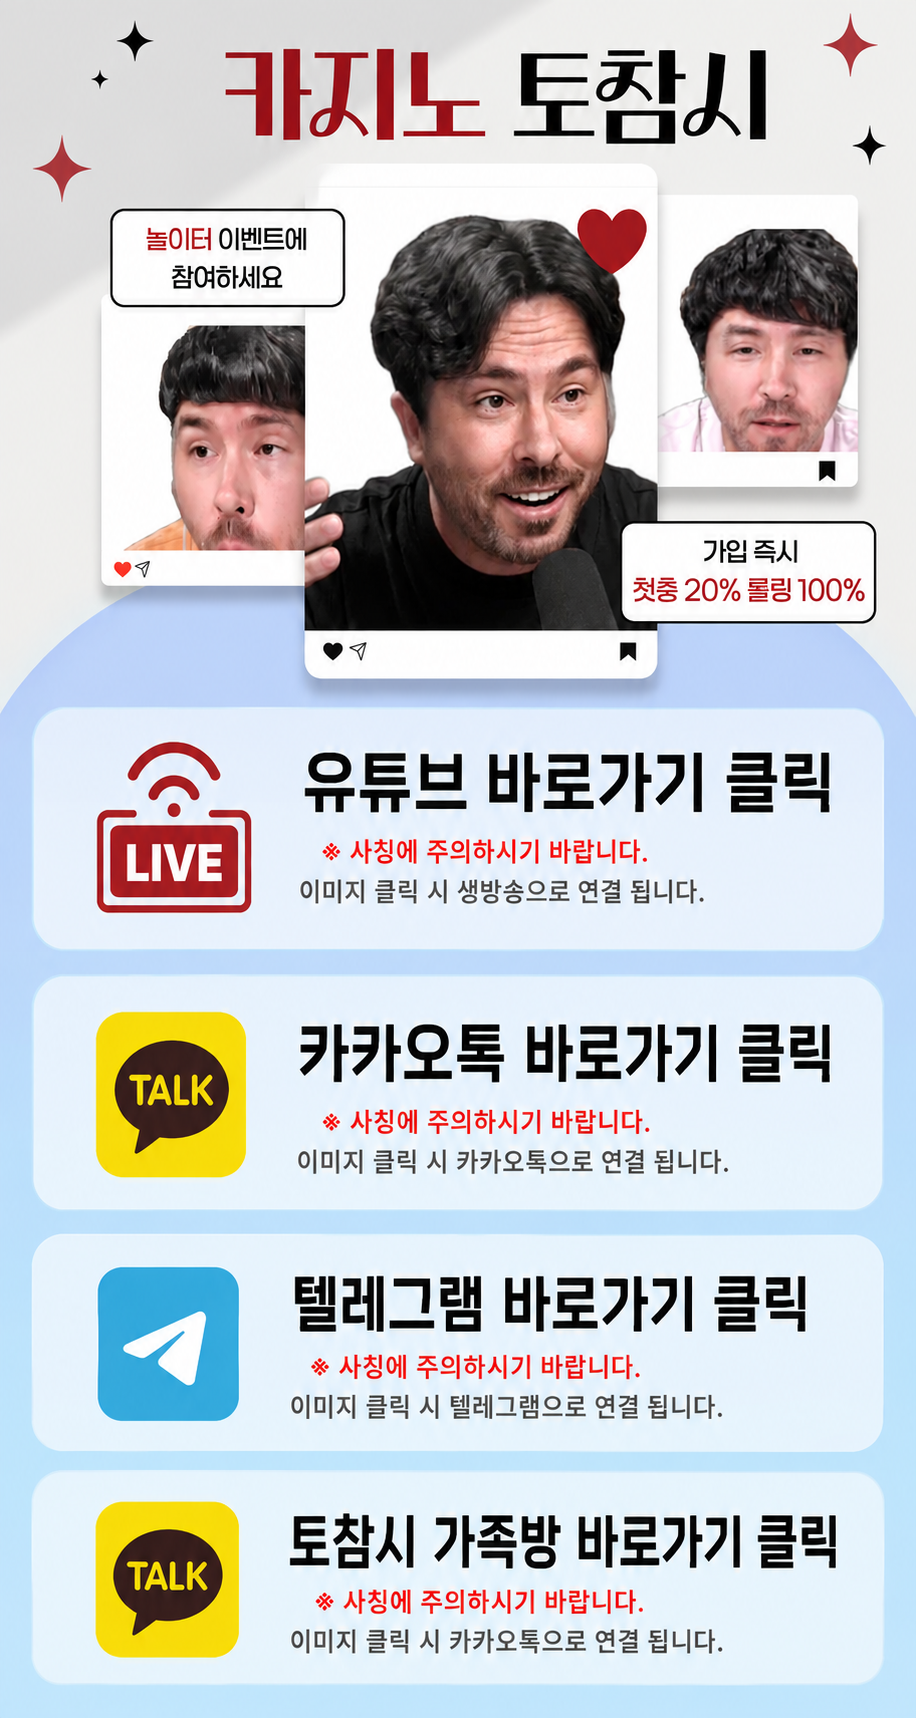
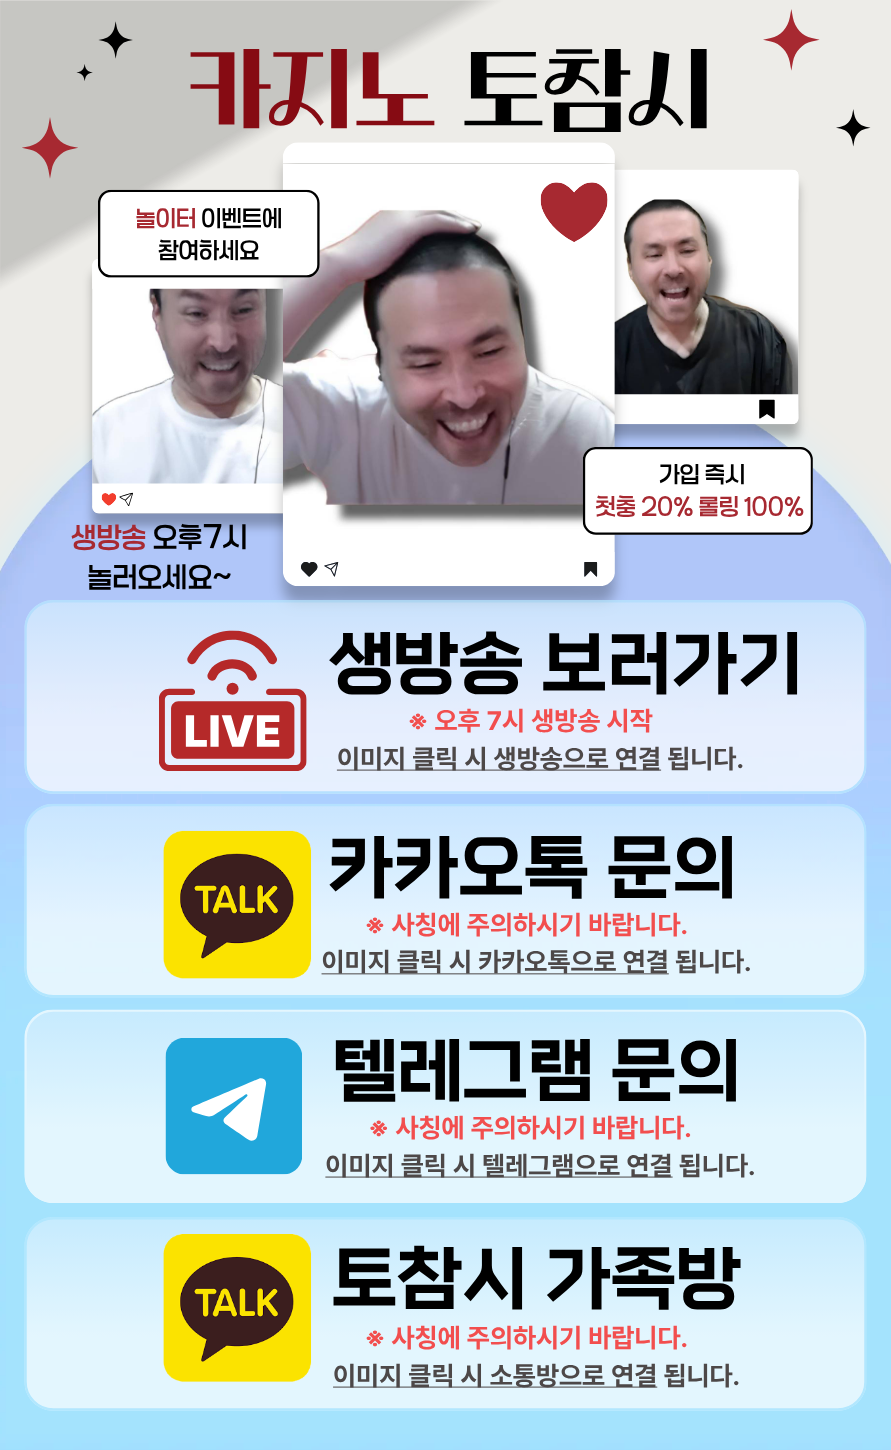
Add files via upload

diff --git a/index.html b/index.html
@@ -3,23 +3,35 @@
 <head>
   <meta charset="utf-8" />
   <meta name="viewport" content="width=device-width, initial-scale=1" />
+
   <title>카지노 토참시</title>
 
   <style>
+    * {
+      box-sizing: border-box;
+    }
+
+    html,
     body {
       margin: 0;
+      padding: 0;
       background: #000;
+    }
+
+    body {
       display: flex;
       justify-content: center;
     }
 
+    /* 전체 랜딩페이지 */
     .wrapper {
       position: relative;
       width: 100%;
-      margin: auto;
+      max-width: 891px;
+      margin: 0 auto;
     }
 
-    /* PC 크기 */
+    /* PC에서는 너무 크게 퍼지지 않게 */
     @media (min-width: 900px) {
       .wrapper {
         width: 45%;
@@ -27,38 +39,50 @@
       }
     }
 
-    /* 이미지 */
+    /* 랜딩 이미지 */
     .wrapper img {
+      display: block;
       width: 100%;
       height: auto;
-      display: block;
     }
 
-    /* 클릭 영역 */
+    /* 공통 클릭 영역 */
     .click-zone {
       position: absolute;
-      left: 3%;
-      width: 94%;
-      height: 12%;
+
+      left: 2.8%;
+      width: 94.4%;
+
+      display: block;
       cursor: pointer;
       z-index: 10;
+
+      /* 테스트할 때만 아래 주석 해제 */
+      /* background: rgba(255, 0, 0, 0.2); */
     }
 
-    /* 각각 위치 */
+    /* 1. 생방송 보러가기 */
     .zone1 {
-      top: 42%;
+      top: 41.25%;
+      height: 13.3%;
     }
 
+    /* 2. 카카오톡 문의 */
     .zone2 {
-      top: 57.5%;
+      top: 55.45%;
+      height: 13.3%;
     }
 
+    /* 3. 텔레그램 문의 */
     .zone3 {
-      top: 72%;
+      top: 69.55%;
+      height: 13.3%;
     }
 
+    /* 4. 토참시 가족방 */
     .zone4 {
-      top: 86%;
+      top: 83.75%;
+      height: 13.3%;
     }
   </style>
 </head>
@@ -67,34 +91,46 @@
 
   <div class="wrapper">
 
-    <img src="landing.png.png" alt="랜딩 이미지" />
+    <!-- 랜딩 이미지 -->
+    <img
+      src="landing.png"
+      alt="카지노 토참시 랜딩페이지"
+    />
 
-    <!-- 1. 유튜브 -->
-    <a class="click-zone zone1"
-       href="https://xn--vv4b54ovoe.com"
-       target="_blank"
-       rel="noopener noreferrer">
+    <!-- 1. 생방송 -->
+    <a
+      class="click-zone zone1"
+      href="https://xn--vv4b54ovoe.com"
+      target="_blank"
+      rel="noopener noreferrer"
+      aria-label="생방송 보러가기">
     </a>
 
-    <!-- 2. 카카오톡 -->
-    <a class="click-zone zone2"
-       href="https://open.kakao.com/o/sZPGH9Dg"
-       target="_blank"
-       rel="noopener noreferrer">
+    <!-- 2. 카카오톡 문의 -->
+    <a
+      class="click-zone zone2"
+      href="https://open.kakao.com/o/sZPGH9Dg"
+      target="_blank"
+      rel="noopener noreferrer"
+      aria-label="카카오톡 문의">
     </a>
 
-    <!-- 3. 텔레그램 -->
-    <a class="click-zone zone3"
-       href="https://telegram.me/storyinquiry"
-       target="_blank"
-       rel="noopener noreferrer">
+    <!-- 3. 텔레그램 문의 -->
+    <a
+      class="click-zone zone3"
+      href="https://telegram.me/storyinquiry"
+      target="_blank"
+      rel="noopener noreferrer"
+      aria-label="텔레그램 문의">
     </a>
 
     <!-- 4. 토참시 가족방 -->
-    <a class="click-zone zone4"
-       href="https://open.kakao.com/o/gTZm5cli"
-       target="_blank"
-       rel="noopener noreferrer">
+    <a
+      class="click-zone zone4"
+      href="https://open.kakao.com/o/gTZm5cli"
+      target="_blank"
+      rel="noopener noreferrer"
+      aria-label="토참시 가족방">
     </a>
 
   </div>
